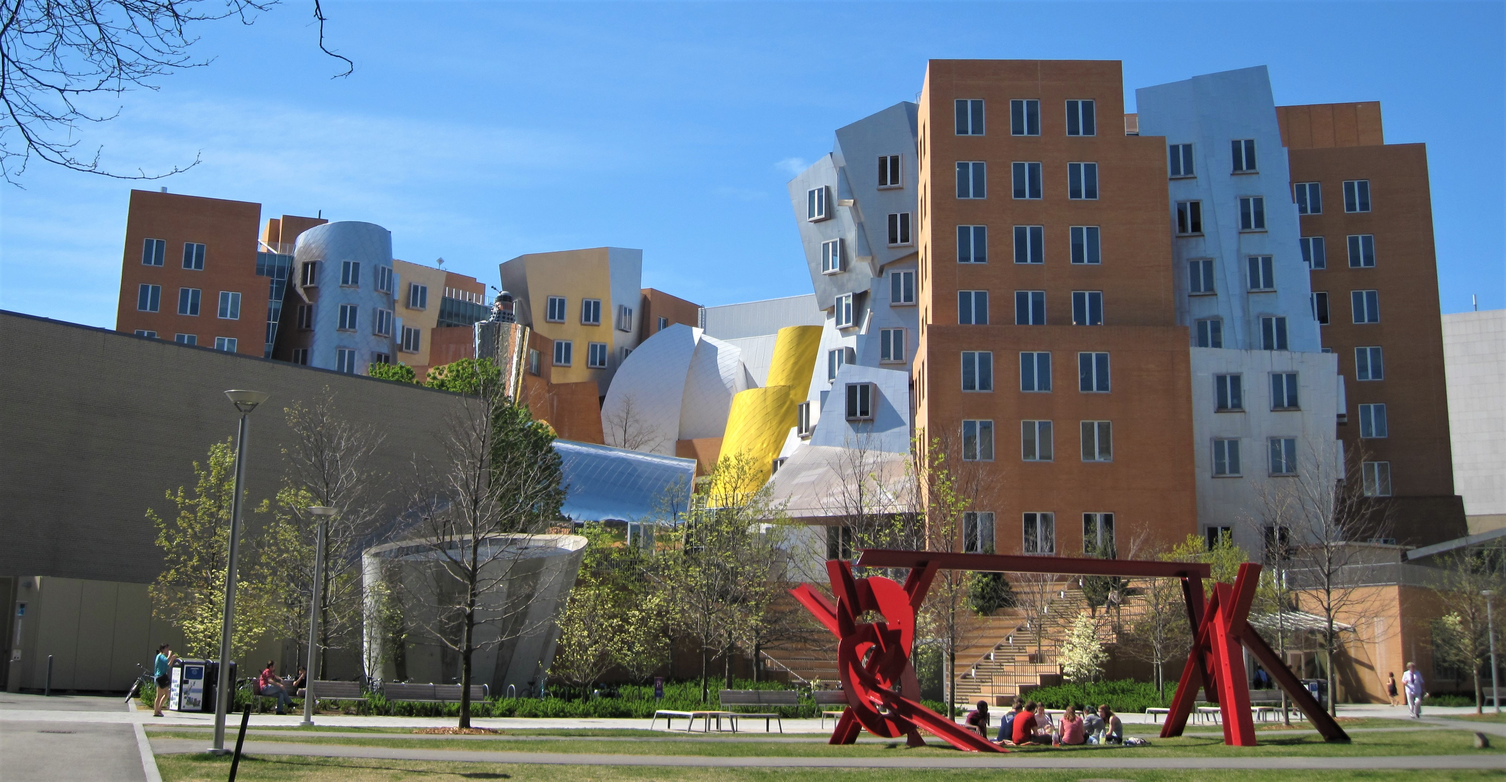
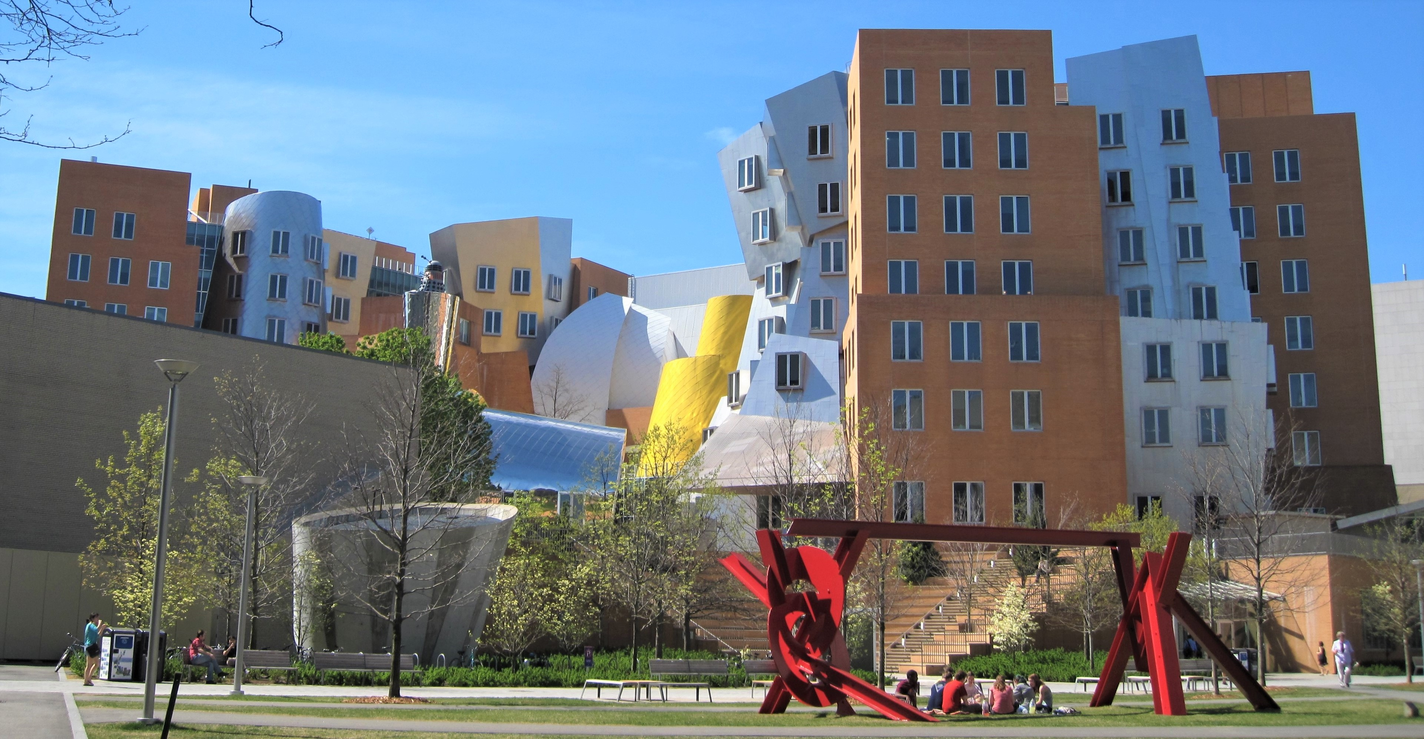
Main img update

diff --git a/assets/css/main.css b/assets/css/main.css
@@ -3894,10 +3894,10 @@
 /* Landing */
 
 	body.landing #page-wrapper {
-		background-image: -moz-linear-gradient(top, rgba(0,0,0,0.5), rgba(0,0,0,0.5)), url("../../images/AWF.jpg");
-		background-image: -webkit-linear-gradient(top, rgba(0,0,0,0.5), rgba(0,0,0,0.5)), url("../../images/AWF.jpg");
-		background-image: -ms-linear-gradient(top, rgba(0,0,0,0.5), rgba(0,0,0,0.5)), url("../../images/AWF.jpg");
-		background-image: linear-gradient(top, rgba(0,0,0,0.5), rgba(0,0,0,0.5)), url("../../images/AWF.jpg");
+		background-image: -moz-linear-gradient(top, rgba(0,0,0,0.5), rgba(0,0,0,0.5)), url("../../images/mit01w.jpg");
+		background-image: -webkit-linear-gradient(top, rgba(0,0,0,0.5), rgba(0,0,0,0.5)), url("../../images/mit01w.jpg");
+		background-image: -ms-linear-gradient(top, rgba(0,0,0,0.5), rgba(0,0,0,0.5)), url("../../images/mit01w.jpg");
+		background-image: linear-gradient(top, rgba(0,0,0,0.5), rgba(0,0,0,0.5)), url("../../images/mit01w.jpg");
 		background-attachment: fixed;
 		background-position: center center;
 		background-repeat: no-repeat;
@@ -3915,10 +3915,10 @@
 
 	body.is-mobile.landing #banner,
 	body.is-mobile.landing .wrapper.style4 {
-		background-image: -moz-linear-gradient(top, rgba(0,0,0,0.5), rgba(0,0,0,0.5)), url("../../images/AWF.jpg");
-		background-image: -webkit-linear-gradient(top, rgba(0,0,0,0.5), rgba(0,0,0,0.5)), url("../../images/AWF.jpg");
-		background-image: -ms-linear-gradient(top, rgba(0,0,0,0.5), rgba(0,0,0,0.5)), url("../../images/AWF.jpg");
-		background-image: linear-gradient(top, rgba(0,0,0,0.5), rgba(0,0,0,0.5)), url("../../images/AWF.jpg");
+		background-image: -moz-linear-gradient(top, rgba(0,0,0,0.5), rgba(0,0,0,0.5)), url("../../images/mit01w.jpg");
+		background-image: -webkit-linear-gradient(top, rgba(0,0,0,0.5), rgba(0,0,0,0.5)), url("../../images/mit01w.jpg");
+		background-image: -ms-linear-gradient(top, rgba(0,0,0,0.5), rgba(0,0,0,0.5)), url("../../images/mit01w.jpg");
+		background-image: linear-gradient(top, rgba(0,0,0,0.5), rgba(0,0,0,0.5)), url("../../images/mit01w.jpg");
 		background-position: center center;
 		background-repeat: no-repeat;
 		background-size: cover;
@@ -3931,10 +3931,10 @@
 /* Splash */
 
 	body.splash #page-wrapper {
-		background-image: -moz-linear-gradient(top, rgba(0,0,0,0.5), rgba(0,0,0,0.5)), url("../../images/AWF02.jpg");
-		background-image: -webkit-linear-gradient(top, rgba(0,0,0,0.5), rgba(0,0,0,0.5)), url("../../images/AWF02.jpg");
-		background-image: -ms-linear-gradient(top, rgba(0,0,0,0.5), rgba(0,0,0,0.5)), url("../../images/AWF02.jpg");
-		background-image: linear-gradient(top, rgba(0,0,0,0.5), rgba(0,0,0,0.5)), url("../../images/AWF02.jpg");
+		background-image: -moz-linear-gradient(top, rgba(0,0,0,0.5), rgba(0,0,0,0.5)), url("../../images/mit01w02.jpg");
+		background-image: -webkit-linear-gradient(top, rgba(0,0,0,0.5), rgba(0,0,0,0.5)), url("../../images/mit01w02.jpg");
+		background-image: -ms-linear-gradient(top, rgba(0,0,0,0.5), rgba(0,0,0,0.5)), url("../../images/mit01w02.jpg");
+		background-image: linear-gradient(top, rgba(0,0,0,0.5), rgba(0,0,0,0.5)), url("../../images/mit01w02.jpg");
 		background-attachment: fixed;
 		background-position: center center;
 		background-repeat: no-repeat;
@@ -3952,10 +3952,10 @@
 
 	body.is-mobile.splash #banner,
 	body.is-mobile.splash .wrapper.style4 {
-		background-image: -moz-linear-gradient(top, rgba(0,0,0,0.5), rgba(0,0,0,0.5)), url("../../images/AWF02.jpg");
-		background-image: -webkit-linear-gradient(top, rgba(0,0,0,0.5), rgba(0,0,0,0.5)), url("../../images/AWF02.jpg");
-		background-image: -ms-linear-gradient(top, rgba(0,0,0,0.5), rgba(0,0,0,0.5)), url("../../images/AWF02.jpg");
-		background-image: linear-gradient(top, rgba(0,0,0,0.5), rgba(0,0,0,0.5)), url("../../images/AWF02.jpg");
+		background-image: -moz-linear-gradient(top, rgba(0,0,0,0.5), rgba(0,0,0,0.5)), url("../../images/mit01w02.jpg");
+		background-image: -webkit-linear-gradient(top, rgba(0,0,0,0.5), rgba(0,0,0,0.5)), url("../../images/mit01w02.jpg");
+		background-image: -ms-linear-gradient(top, rgba(0,0,0,0.5), rgba(0,0,0,0.5)), url("../../images/mit01w02.jpg");
+		background-image: linear-gradient(top, rgba(0,0,0,0.5), rgba(0,0,0,0.5)), url("../../images/mit01w02.jpg");
 		background-position: center center;
 		background-repeat: no-repeat;
 		background-size: cover;
